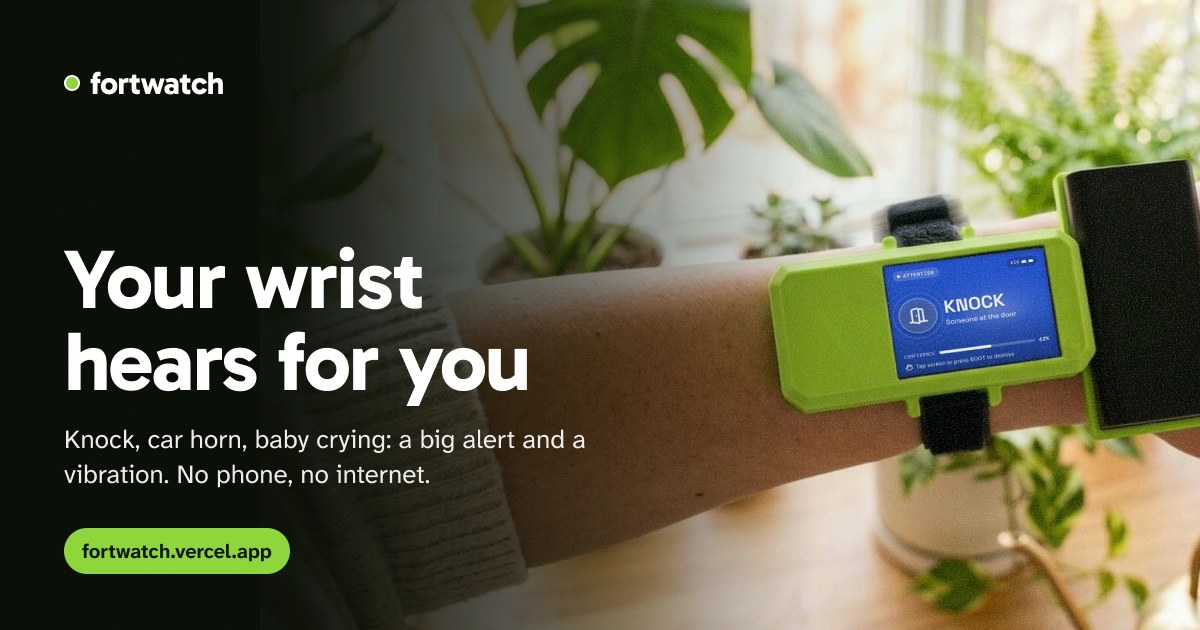
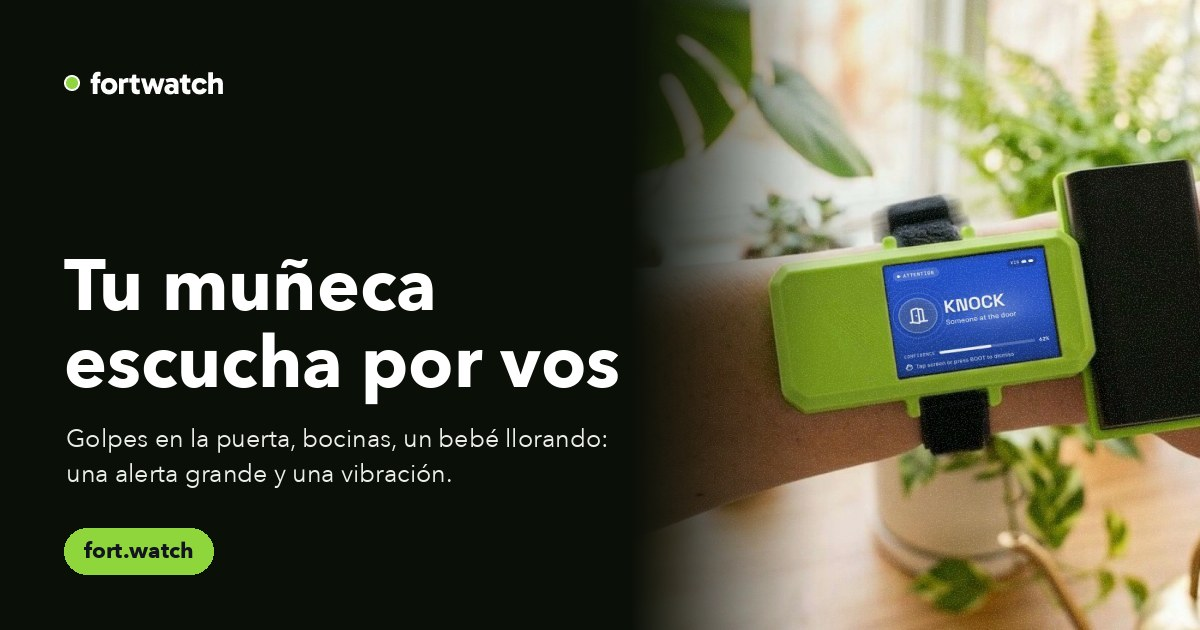
Landing in Spanish, fort.watch links and a presale button
- Title, description, Open Graph and Twitter tags in Spanish (es_AR); canonical,
  og:url and og:image now point to https://fort.watch instead of the Vercel URL.
- og.jpg redone in Spanish with fort.watch on the pill. Dropped "No phone, no
  internet": detection still runs on the Mac or phone.
- Hero copy in Spanish. The trust line says "Funciona sin internet" (alerts go over
  Bluetooth) instead of "Audio never leaves your wrist", which isn't true yet.
- "Reservá la tuya en preventa" and the nav CTA are presale buttons. Set
  PRESALE_URL (Mercado Pago link) in the page script to send them to checkout;
  until then they open a "Muy pronto" dialog. No price shown until it's decided.
  Nav also links to /dashboard (live alerts).

diff --git a/docs/landing/index.html b/docs/landing/index.html
@@ -1,29 +1,29 @@
 <!doctype html>
-<html lang="en">
+<html lang="es-AR">
 <head>
 <meta charset="utf-8">
 <meta name="viewport" content="width=device-width, initial-scale=1, viewport-fit=cover">
-<title>FortWatch · Your wrist hears for you</title>
-<meta name="description" content="FortWatch is a wristband for Deaf and hard-of-hearing people. It recognizes 10 important sounds, like a knock, a car horn or a baby crying, and alerts you with a full-screen message and a vibration. No internet needed, and audio never leaves your wrist.">
-<link rel="canonical" href="https://fortwatch.vercel.app/">
+<title>FortWatch · Tu muñeca escucha por vos</title>
+<meta name="description" content="FortWatch es una pulsera para personas sordas e hipoacúsicas. Reconoce 10 sonidos importantes, como un golpe en la puerta, una bocina o un bebé llorando, y te avisa con una alerta a pantalla completa y una vibración. Funciona sin internet y el audio no se graba.">
+<link rel="canonical" href="https://fort.watch/">
 <meta name="theme-color" content="#11160d">
 <link rel="icon" href="/favicon.svg" type="image/svg+xml">
 <link rel="apple-touch-icon" href="/apple-touch-icon.png">
 <meta property="og:type" content="website">
 <meta property="og:site_name" content="FortWatch">
-<meta property="og:url" content="https://fortwatch.vercel.app/">
-<meta property="og:title" content="FortWatch · Your wrist hears for you">
-<meta property="og:description" content="A wristband that hears a knock, a car horn or a baby crying and tells you with a big alert and a vibration. No internet. Audio never leaves your wrist.">
-<meta property="og:image" content="https://fortwatch.vercel.app/og.jpg">
+<meta property="og:url" content="https://fort.watch/">
+<meta property="og:title" content="FortWatch · Tu muñeca escucha por vos">
+<meta property="og:description" content="Una pulsera que escucha un golpe en la puerta, una bocina o a tu bebé llorando, y te avisa con una alerta grande y una vibración. Preventa abierta.">
+<meta property="og:image" content="https://fort.watch/og.jpg">
 <meta property="og:image:width" content="1200">
 <meta property="og:image:height" content="630">
-<meta property="og:image:alt" content="A lime-green FortWatch wristband on a wrist showing a KNOCK alert, next to the words Your wrist hears for you.">
-<meta property="og:locale" content="en_US">
+<meta property="og:image:alt" content="Una pulsera FortWatch verde lima en la muñeca mostrando una alerta KNOCK, junto al texto Tu muñeca escucha por vos.">
+<meta property="og:locale" content="es_AR">
 <meta name="twitter:card" content="summary_large_image">
-<meta name="twitter:title" content="FortWatch · Your wrist hears for you">
-<meta name="twitter:description" content="A wristband that hears a knock, a car horn or a baby crying and tells you with a big alert and a vibration. No internet.">
-<meta name="twitter:image" content="https://fortwatch.vercel.app/og.jpg">
-<meta name="twitter:image:alt" content="A lime-green FortWatch wristband on a wrist showing a KNOCK alert.">
+<meta name="twitter:title" content="FortWatch · Tu muñeca escucha por vos">
+<meta name="twitter:description" content="Una pulsera que escucha un golpe en la puerta, una bocina o a tu bebé llorando, y te avisa con una alerta grande y una vibración.">
+<meta name="twitter:image" content="https://fort.watch/og.jpg">
+<meta name="twitter:image:alt" content="Una pulsera FortWatch verde lima en la muñeca mostrando una alerta KNOCK.">
 <link rel="preconnect" href="https://fonts.googleapis.com">
 <link rel="preconnect" href="https://fonts.gstatic.com" crossorigin>
 <link rel="stylesheet" href="https://fonts.googleapis.com/css2?family=Atkinson+Hyperlegible+Next:wght@400;500;700&family=Gabarito:wght@700&family=JetBrains+Mono:wght@500&display=swap">
@@ -112,6 +112,23 @@ h1 { margin: 0; font-family: var(--font-display); font-weight: 700; font-size: c
 .alert span { font-size: 13px; opacity: .9; }
 @keyframes arrive { from { opacity: 0; transform: translateY(16px) scale(.97); } to { opacity: 1; transform: none; } }
 
+/* presale dialog (until the Mercado Pago link exists) */
+.presale {
+  width: min(440px, calc(100vw - 32px)); padding: 28px; border-radius: 28px; color: var(--white);
+  background: rgba(30, 33, 48, .72);
+}
+.presale::backdrop { background: rgba(var(--shade), .55); -webkit-backdrop-filter: blur(4px); backdrop-filter: blur(4px); }
+.presale form { display: grid; gap: 12px; margin: 0; }
+.presale .tag { margin: 0; font-family: var(--font-mono); font-size: 11px; letter-spacing: .1em; color: var(--lime); }
+.presale h2 { margin: 0; font-family: var(--font-display); font-size: 32px; letter-spacing: -.02em; }
+.presale p { margin: 0; line-height: 1.5; opacity: .9; }
+.presale-actions { display: flex; flex-wrap: wrap; gap: 12px; align-items: center; margin-top: 8px; }
+.presale-close {
+  padding: 15px 22px; border-radius: 999px; border: 1px solid var(--glass-line); background: transparent;
+  color: inherit; font: inherit; font-weight: 700; cursor: pointer;
+}
+.presale-close:hover { background: rgba(255,255,255,.1); }
+
 :focus-visible { outline: 3px solid #9fb4ff; outline-offset: 3px; }
 
 @media (max-width: 1100px) { .links { display: none; } .alert { display: none; } }
@@ -128,39 +145,71 @@ h1 { margin: 0; font-family: var(--font-display); font-weight: 700; font-size: c
 <header class="hero">
   <img class="still" src="hero-poster.jpg" alt="">
   <video id="film" autoplay muted loop playsinline preload="auto" poster="hero-poster.jpg"
-    aria-label="A day with Maya, who is Deaf: her wristband tells her when someone knocks, when a car honks and when her baby wakes up.">
+    aria-label="Un día con Maya, que es sorda: su pulsera le avisa cuando tocan la puerta, cuando suena una bocina y cuando su bebé se despierta.">
     <source src="hero.mp4" type="video/mp4">
   </video>
 
-  <nav class="nav glass" aria-label="Main">
+  <nav class="nav glass" aria-label="Principal">
     <a class="logo" href="https://devpost.com/software/fortwatch"><i aria-hidden="true"></i>fortwatch</a>
     <ul class="links">
-      <li><a href="https://devpost.com/software/fortwatch">Home</a></li>
-      <li><a href="https://devpost.com/software/fortwatch">How it works</a></li>
-      <li><a href="https://devpost.com/software/fortwatch">Sounds</a></li>
-      <li><a href="https://devpost.com/software/fortwatch">Pricing</a></li>
-      <li><a href="https://devpost.com/software/fortwatch">FAQ</a></li>
+      <li><a href="https://devpost.com/software/fortwatch">Cómo funciona</a></li>
+      <li><a href="https://devpost.com/software/fortwatch">Sonidos</a></li>
+      <li><a href="#preventa" data-presale>Preventa</a></li>
+      <li><a href="/dashboard">Dashboard en vivo</a></li>
     </ul>
-    <a class="nav-cta" href="https://devpost.com/software/fortwatch">Reserve</a>
+    <a class="nav-cta" href="#preventa" data-presale>Preventa</a>
   </nav>
 
   <div class="content">
-    <h1>Your wrist hears for you</h1>
-    <p class="sub">It hears a knock, a car horn or your baby crying, and tells you with a big alert and a vibration. No internet.</p>
+    <h1>Tu muñeca escucha por vos</h1>
+    <p class="sub">Escucha un golpe en la puerta, una bocina o a tu bebé llorando, y te avisa con una alerta grande y una vibración.</p>
     <div class="cta-row">
-      <a class="cta" href="https://devpost.com/software/fortwatch">Reserve yours for $16.67</a>
+      <a class="cta" href="#preventa" data-presale>Reservá la tuya en preventa</a>
     </div>
     <ul class="trust">
-      <li><svg width="20" height="20" viewBox="0 0 24 24" fill="none" stroke="currentColor" stroke-width="1.8" stroke-linecap="round" stroke-linejoin="round" aria-hidden="true"><path d="M20 6 9 17l-5-5"/></svg>10 everyday sounds</li>
-      <li><svg width="20" height="20" viewBox="0 0 24 24" fill="none" stroke="currentColor" stroke-width="1.8" stroke-linecap="round" stroke-linejoin="round" aria-hidden="true"><path d="M20 6 9 17l-5-5"/></svg>Audio never leaves your wrist</li>
-      <li><svg width="20" height="20" viewBox="0 0 24 24" fill="none" stroke="currentColor" stroke-width="1.8" stroke-linecap="round" stroke-linejoin="round" aria-hidden="true"><path d="M20 6 9 17l-5-5"/></svg>Screen and vibration</li>
+      <li><svg width="20" height="20" viewBox="0 0 24 24" fill="none" stroke="currentColor" stroke-width="1.8" stroke-linecap="round" stroke-linejoin="round" aria-hidden="true"><path d="M20 6 9 17l-5-5"/></svg>10 sonidos cotidianos</li>
+      <li><svg width="20" height="20" viewBox="0 0 24 24" fill="none" stroke="currentColor" stroke-width="1.8" stroke-linecap="round" stroke-linejoin="round" aria-hidden="true"><path d="M20 6 9 17l-5-5"/></svg>Funciona sin internet</li>
+      <li><svg width="20" height="20" viewBox="0 0 24 24" fill="none" stroke="currentColor" stroke-width="1.8" stroke-linecap="round" stroke-linejoin="round" aria-hidden="true"><path d="M20 6 9 17l-5-5"/></svg>Pantalla y vibración</li>
     </ul>
   </div>
 
-  <div class="alert glass" role="img" aria-label="Example alert: KNOCK, someone is at the door">
+  <div class="alert glass" role="img" aria-label="Alerta de ejemplo: KNOCK, tocan la puerta">
     <div class="badge"><svg width="22" height="22" viewBox="0 0 24 24" fill="none" stroke="#fff" stroke-width="1.8" stroke-linecap="round" stroke-linejoin="round" aria-hidden="true"><path d="M13 4h3a2 2 0 0 1 2 2v14"/><path d="M2 20h3"/><path d="M13 20h9"/><path d="M10 12v.01"/><path d="M13 4.56v16.157a.5.5 0 0 1-.652.476l-4.696-1.565A2 2 0 0 1 6 17.733V5.562a2 2 0 0 1 1.515-1.94l4.243-1.06A1 1 0 0 1 13 3.56z"/></svg></div>
-    <div><div class="tag">ATTENTION · VIB ●●</div><b>KNOCK</b><span>Someone at the door · now</span></div>
+    <div><div class="tag">ATENCIÓN · VIB ●●</div><b>KNOCK</b><span>Tocan la puerta · ahora</span></div>
   </div>
 </header>
+
+<!-- Preventa: hasta que haya link de Mercado Pago, los botones abren este aviso. -->
+<dialog id="preventa" class="presale glass" aria-labelledby="preventa-titulo">
+  <form method="dialog">
+    <p class="tag">PREVENTA</p>
+    <h2 id="preventa-titulo">Muy pronto</h2>
+    <p>Estamos por abrir la preventa de FortWatch con Mercado Pago. Cuando esté lista, este botón te lleva directo al pago.</p>
+    <div class="presale-actions">
+      <a class="cta" href="/dashboard">Ver el dashboard en vivo</a>
+      <button class="presale-close" value="close">Cerrar</button>
+    </div>
+  </form>
+</dialog>
+
+<script>
+  // Pegar acá el link de pago de Mercado Pago (ej. https://mpago.la/...) cuando esté listo.
+  // Mientras quede vacío, los botones de preventa muestran el aviso de "Muy pronto".
+  const PRESALE_URL = "";
+
+  const dialog = document.getElementById("preventa");
+  document.querySelectorAll("[data-presale]").forEach((el) => {
+    if (PRESALE_URL) {
+      el.href = PRESALE_URL;
+      return;
+    }
+    el.addEventListener("click", (event) => {
+      if (!dialog.showModal) return; // very old browsers: just follow the #preventa link
+      event.preventDefault();
+      dialog.showModal();
+    });
+  });
+  dialog.addEventListener("click", (event) => { if (event.target === dialog) dialog.close(); });
+</script>
 </body>
 </html>
